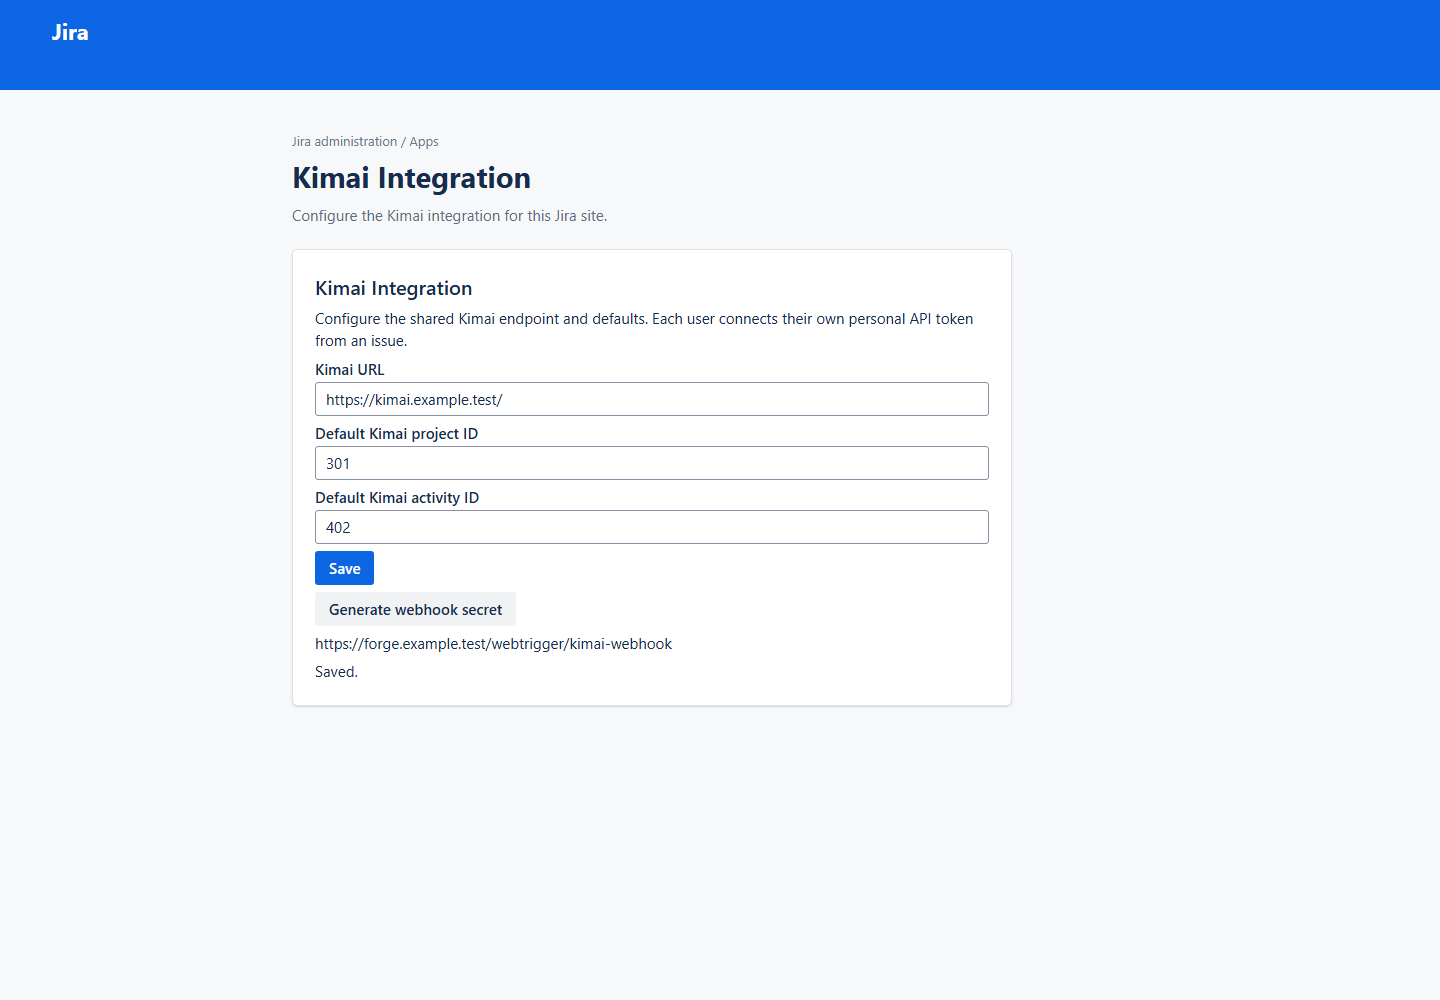
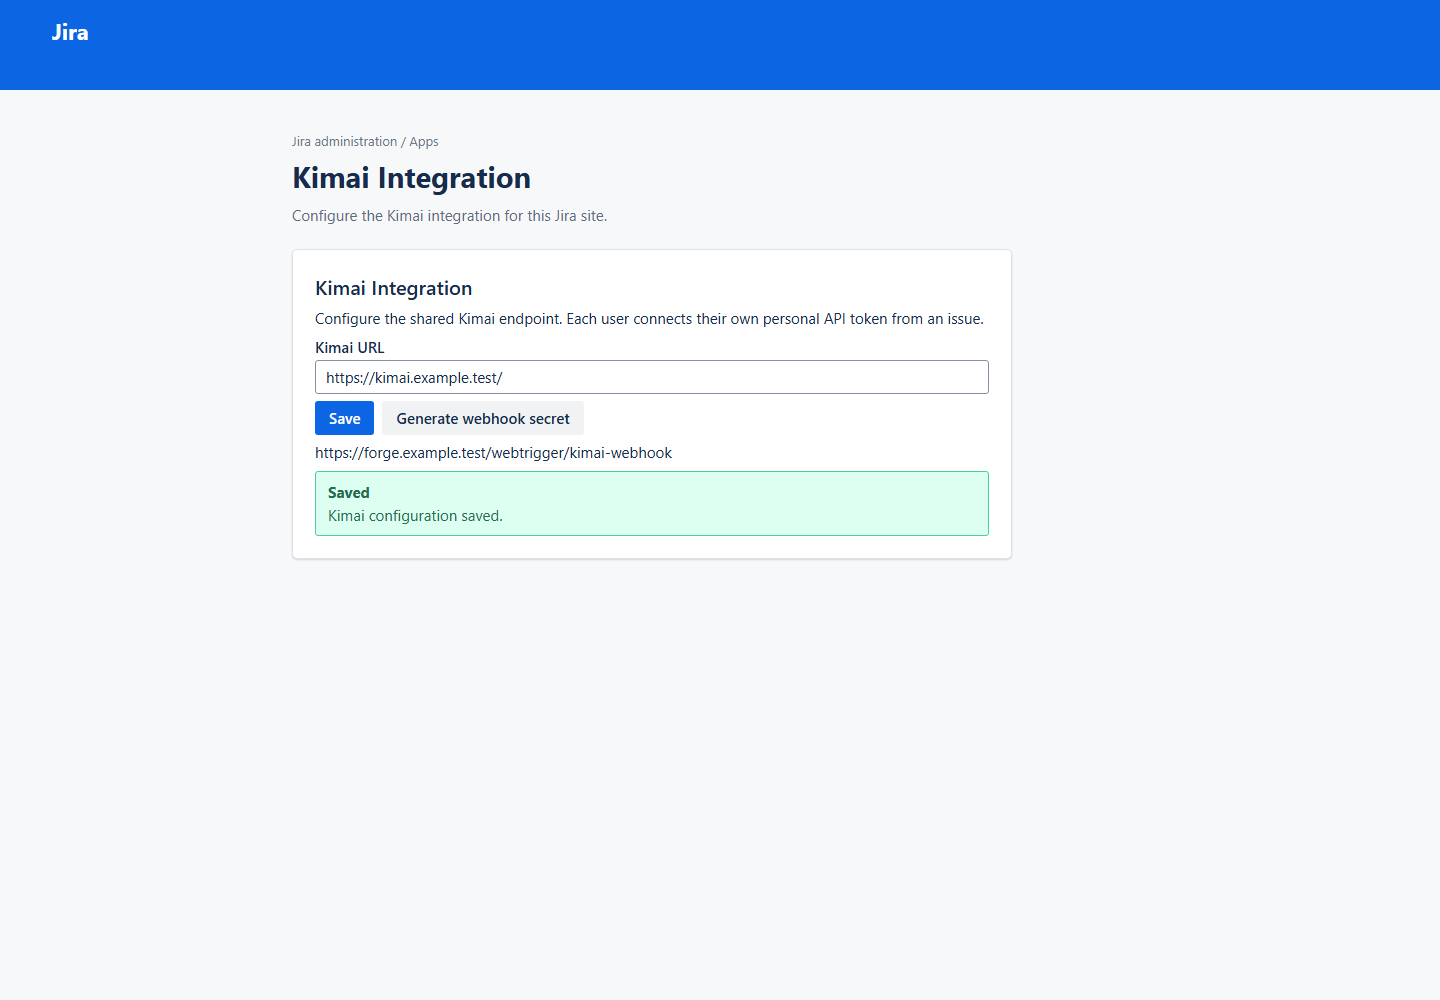
fix(kimai): normalize API base URL

Changed region(s): [[0.2188, 0.341, 0.6875, 0.682], [0.375, 0.31, 0.6875, 0.341]]

diff --git a/scripts/ui-docs/generate.ts b/scripts/ui-docs/generate.ts
@@ -70,6 +70,7 @@ function renderNode(node: ForgeNode | undefined): string {
     case 'TabList':
     case 'TabPanel': return children;
     case 'Text': return `<div class="text">${children}</div>`;
+    case 'SectionMessage': return `<div class="section-message section-message--${escapeHtml(node.props.appearance ?? 'info')}" role="status"><strong>${escapeHtml(node.props.title ?? '')}</strong>${children}</div>`;
     case 'Select': {
       const value = node.props.value as { label?: unknown } | null;
       return `<div class="select">${escapeHtml(value?.label ?? node.props.placeholder ?? '')}<span>⌄</span></div>`;
@@ -98,6 +99,7 @@ function documentationShell(fixture: UiDocumentationFixture, content: string): s
   return `<!doctype html><html lang="en"><head><meta charset="utf-8"><style>
     * { box-sizing: border-box; } html { background: #f7f8f9; } body { margin: 0; min-width: 1000px; color: #172b4d; background: #f7f8f9; font: 15px -apple-system, BlinkMacSystemFont, "Segoe UI", sans-serif; } body::before { content: "Jira"; display: block; height: 58px; padding: 16px 52px; color: white; background: #0c66e4; font-size: 22px; font-weight: 700; } h1 { margin: 8px 0 18px; color: #172b4d; font-size: 29px; } h2 { font-size: 18px; } .crumb { margin: 0; color: #6b778c; font-size: 13px; } .issue-page { display: grid; grid-template-columns: minmax(0, 1fr) 410px; gap: 36px; max-width: 1336px; margin: 44px auto; padding: 0 38px; } .issue-content { padding: 12px; } .issue-rule { height: 1px; margin: 34px 0 26px; background: #dfe1e6; } .issue-sidebar { align-self: start; overflow: hidden; border: 1px solid #dfe1e6; border-radius: 5px; background: white; box-shadow: 0 1px 2px #091e4226; } .panel-title { margin: 0; padding: 15px 18px; border-bottom: 1px solid #dfe1e6; font-weight: 600; } .forge-view { padding: 18px; } .admin-page { max-width: 940px; margin: 42px auto; padding: 0 42px 48px; } .admin-intro { margin: -8px 0 24px; color: #5e6c84; } .admin-view { max-width: 720px; padding: 22px; border: 1px solid #dfe1e6; border-radius: 5px; background: white; box-shadow: 0 1px 2px #091e4226; } .stack { display: grid; gap: 10px; } .admin-view .stack { gap: 7px; } .tabs { margin: -18px; } .tab-list { display: flex; gap: 20px; padding: 0 18px; border-bottom: 1px solid #dfe1e6; } .tab { padding: 13px 2px 10px; color: #5e6c84; font-weight: 500; } .tab--selected { border-bottom: 2px solid #0c66e4; color: #0c66e4; } .tab-panel { padding: 18px; } .text { line-height: 1.45; } .select, input, textarea { min-height: 40px; width: 100%; border: 1px solid #8590a2; border-radius: 3px; padding: 9px 11px; color: #172b4d; background: white; font: inherit; } textarea { min-height: 64px; resize: none; } .input--readonly { color: #172b4d; background: #f1f2f4; font-weight: 600; } .admin-view input { min-height: 34px; padding: 6px 10px; } .select { display: flex; justify-content: space-between; } button { width: fit-content; min-height: 34px; padding: 7px 14px; border: 0; border-radius: 3px; color: #172b4d; background: #091e420f; font: inherit; font-weight: 500; } .button--primary { color: white; background: #0c66e4; } .form-section { display: grid; gap: 6px; } .admin-view .form-section { gap: 3px; } label { color: #172b4d; font-weight: 600; } .inline { display: flex; gap: 8px; } .inline--time-row { display: grid; grid-template-columns: repeat(3, minmax(0, 1fr)); align-items: start; } .inline--fill { align-items: end; } .inline--fill input { flex: 1; } .inline--center { justify-content: center; } .tag-group { display: flex; flex-wrap: wrap; gap: 6px; } .tag-group .inline { align-items: center; gap: 3px; } .tag { display: inline-flex; align-items: center; min-height: 28px; padding: 4px 8px; border-radius: 3px; color: #0055cc; background: #deebff; font-size: 13px; font-weight: 600; } .tag-group button { min-height: 28px; padding: 4px 7px; font-size: 12px; } .checkbox { display: flex; align-items: center; gap: 8px; } .checkbox input { min-height: auto; width: auto; } .admin-view > .stack > .text:first-child { font-size: 20px; font-weight: 600; } * { animation: none !important; transition: none !important; caret-color: transparent !important; }
     .toggle { display: inline-flex; align-items: center; width: 40px; height: 24px; padding: 2px; border-radius: 12px; background: #0c66e4; } .toggle[aria-checked="false"] { background: #8590a2; } .toggle__thumb { display: block; width: 20px; height: 20px; border-radius: 50%; background: white; box-shadow: 0 1px 2px #091e4226; transform: translateX(16px); } .toggle[aria-checked="false"] .toggle__thumb { transform: translateX(0); }
+    .section-message { padding: 10px 12px; border: 1px solid; border-radius: 3px; } .section-message strong { display: block; margin-bottom: 3px; } .section-message--error { color: #ae2e24; border-color: #f87168; background: #ffebe6; } .section-message--warning { color: #974f0c; border-color: #f5cd47; background: #fff7d6; } .section-message--success { color: #216e4e; border-color: #4bce97; background: #dcfff1; } .section-message--information { color: #0055cc; border-color: #85b8ff; background: #e9f2ff; }
   </style></head><body><div id="ui-docs-ready">${issueShell}</div></body></html>`;
 }
 

diff --git a/src/frontend/admin/AdminView.tsx b/src/frontend/admin/AdminView.tsx
@@ -1,4 +1,4 @@
-import { Button, FormSection, Label, Stack, Text, Textfield } from '@forge/react';
+import { Button, FormSection, Inline, Label, SectionMessage, Stack, Text, Textfield } from '@forge/react';
 
 export interface ConfigurationState {
   config?: {
@@ -12,14 +12,10 @@ export interface ConfigurationState {
 export interface AdminViewProps {
   state: ConfigurationState;
   url: string;
-  defaultProjectId: string;
-  defaultActivityId: string;
   saved: boolean;
   error?: string;
   webhookSecret?: string;
   onUrlChange: (value: string) => void;
-  onDefaultProjectIdChange: (value: string) => void;
-  onDefaultActivityIdChange: (value: string) => void;
   onSave: () => void;
   onGenerateWebhookSecret: () => void;
 }
@@ -28,37 +24,24 @@ export interface AdminViewProps {
 export const AdminView = ({
   state,
   url,
-  defaultProjectId,
-  defaultActivityId,
   saved,
   error,
   webhookSecret,
   onUrlChange,
-  onDefaultProjectIdChange,
-  onDefaultActivityIdChange,
   onSave,
   onGenerateWebhookSecret,
 }: AdminViewProps) => (
   <Stack space="space.200">
     <Text>Kimai Integration</Text>
-    <Text>Configure the shared Kimai endpoint and defaults. Each user connects their own personal API token from an issue.</Text>
+    <Text>Configure the shared Kimai endpoint. Each user connects their own personal API token from an issue.</Text>
     <FormSection>
       <Label labelFor="kimai-url">Kimai URL</Label>
       <Textfield id="kimai-url" value={url} onChange={(event: { target: { value?: unknown } }) => onUrlChange(String(event.target.value ?? ''))} />
     </FormSection>
-    <FormSection>
-      <Label labelFor="default-project-id">Default Kimai project ID</Label>
-      <Textfield id="default-project-id" value={defaultProjectId} onChange={(event: { target: { value?: unknown } }) => onDefaultProjectIdChange(String(event.target.value ?? ''))} />
-    </FormSection>
-    <FormSection>
-      <Label labelFor="default-activity-id">Default Kimai activity ID</Label>
-      <Textfield id="default-activity-id" value={defaultActivityId} onChange={(event: { target: { value?: unknown } }) => onDefaultActivityIdChange(String(event.target.value ?? ''))} />
-    </FormSection>
-    <Button appearance="primary" onClick={onSave}>Save</Button>
-    <Button onClick={onGenerateWebhookSecret}>Generate webhook secret</Button>
+    <Inline space="space.100"><Button appearance="primary" onClick={onSave}>Save</Button><Button onClick={onGenerateWebhookSecret}>Generate webhook secret</Button></Inline>
     {state.webhookUrl && <Text>{state.webhookUrl}</Text>}
-    {error && <Text>{error}</Text>}
-    {webhookSecret && <Text>{webhookSecret}</Text>}
-    {saved && <Text>Saved.</Text>}
+    {error && <SectionMessage appearance="error" title="Kimai configuration error">{error}</SectionMessage>}
+    {webhookSecret && <SectionMessage appearance="information" title="New webhook secret">{webhookSecret}</SectionMessage>}
+    {saved && <SectionMessage appearance="success" title="Saved">Kimai configuration saved.</SectionMessage>}
   </Stack>
 );

diff --git a/src/frontend/admin/index.tsx b/src/frontend/admin/index.tsx
@@ -7,8 +7,6 @@ import { AdminView, ConfigurationState } from './AdminView';
 const App = () => {
   const [state, setState] = useState<ConfigurationState | undefined>(undefined);
   const [url, setUrl] = useState('');
-  const [defaultProjectId, setDefaultProjectId] = useState('');
-  const [defaultActivityId, setDefaultActivityId] = useState('');
   const [saved, setSaved] = useState(false);
   const [error, setError] = useState<string | undefined>(undefined);
   const [webhookSecret, setWebhookSecret] = useState<string | undefined>(undefined);
@@ -18,8 +16,6 @@ const App = () => {
       const typed = result as ConfigurationState;
       setState(typed);
       setUrl(typed.config?.url ?? '');
-      setDefaultProjectId(typed.config?.defaultProjectId === undefined ? '' : String(typed.config.defaultProjectId));
-      setDefaultActivityId(typed.config?.defaultActivityId === undefined ? '' : String(typed.config.defaultActivityId));
       setError(undefined);
     }).catch(() => setError('Unable to load the current Kimai configuration.'));
   }, []);
@@ -28,8 +24,6 @@ const App = () => {
     try {
       const result = (await invoke('saveConnectionSettings', {
         url,
-        defaultProjectId: defaultProjectId === '' ? null : Number(defaultProjectId),
-        defaultActivityId: defaultActivityId === '' ? null : Number(defaultActivityId),
       })) as { ok?: boolean; error?: string };
       if (!result.ok) throw new Error(result.error ?? 'Unable to save the connection settings.');
       setSaved(true);
@@ -53,11 +47,7 @@ const App = () => {
 
   if (!state) return <Text>{error ?? 'Loading configuration...'}</Text>;
   return <AdminView
-    defaultActivityId={defaultActivityId}
-    defaultProjectId={defaultProjectId}
     error={error}
-    onDefaultActivityIdChange={setDefaultActivityId}
-    onDefaultProjectIdChange={setDefaultProjectId}
     onGenerateWebhookSecret={onGenerateWebhookSecret}
     onSave={onSave}
     onUrlChange={setUrl}

diff --git a/src/frontend/issue-context/IssueContextView.tsx b/src/frontend/issue-context/IssueContextView.tsx
@@ -6,6 +6,7 @@ import {
   Label,
   LoadingButton,
   Select,
+  SectionMessage,
   Stack,
   Tag,
   TagGroup,
@@ -418,7 +419,7 @@ function ManualTimeEntry({
           <Button onClick={onManageConnection}>Manage Kimai connection</Button>
         </Stack>
       </Box>
-      {message && <Text>{message}</Text>}
+      {message && <SectionMessage appearance={message.startsWith('Time entry') ? 'success' : 'error'} title={message.startsWith('Time entry') ? 'Time added' : 'Unable to add time'}>{message}</SectionMessage>}
     </Stack>
   );
 }
@@ -444,7 +445,7 @@ function PersonalKimaiConnection({
       </FormSection>
       <LoadingButton appearance="primary" isDisabled={isPending || !token} isLoading={isPending} onClick={onSave}>Save personal API token</LoadingButton>
       {hasPersonalToken && <Button isDisabled={isPending} onClick={onReset}>Reset API key</Button>}
-      {message && <Text>{message}</Text>}
+      {message && <SectionMessage appearance={message.startsWith('Connected') ? 'success' : 'error'} title={message.startsWith('Connected') ? 'Kimai connected' : 'Kimai connection error'}>{message}</SectionMessage>}
     </Stack>
   );
 }

diff --git a/tests/unit/kimai-client.test.ts b/tests/unit/kimai-client.test.ts
@@ -68,4 +68,13 @@ describe('HttpKimaiClient', () => {
       expect.any(Object),
     );
   });
+
+  it('accepts a Kimai API URL without duplicating the API path', async () => {
+    const fetchFn = jest.fn().mockResolvedValue({ ok: true, status: 200, json: jest.fn().mockResolvedValue({ id: 42 }) });
+    const client = new HttpKimaiClient({ baseUrl: 'https://kimai.example.test/api', apiToken: 'token', fetchFn: fetchFn as unknown as typeof fetch });
+
+    await client.getCurrentUser();
+
+    expect(fetchFn).toHaveBeenCalledWith('https://kimai.example.test/api/users/me', expect.any(Object));
+  });
 });

diff --git a/src/kimai/client.ts b/src/kimai/client.ts
@@ -48,7 +48,10 @@ export class HttpKimaiClient implements KimaiClient {
   private readonly fetchFn: typeof fetch;
 
   constructor(options: KimaiClientOptions) {
-    this.baseUrl = options.baseUrl.replace(/\/+$/, '');
+    // Kimai asks users for the browser base URL, not its `/api` endpoint.
+    // Accept a previously saved `/api` URL as well so existing installations
+    // do not issue invalid requests such as `/api/api/users/me`.
+    this.baseUrl = options.baseUrl.replace(/\/+$/, '').replace(/\/api$/, '');
     this.apiToken = options.apiToken;
     this.fetchFn = options.fetchFn ?? fetch;
   }

diff --git a/tests/unit/configuration-resolver.test.ts b/tests/unit/configuration-resolver.test.ts
@@ -103,4 +103,12 @@ describe('configuration resolver', () => {
     });
     expect(mockSetKimaiConfig).toHaveBeenCalledWith({ url: 'https://new-kimai.example.test/base' });
   });
+
+  it('normalizes an API endpoint to the Kimai browser base URL', async () => {
+    const saveConnectionSettings = (handler as unknown as typeof mockDefinitions).saveConnectionSettings;
+
+    await saveConnectionSettings({ payload: { url: 'https://kimai.example.test/api' } });
+
+    expect(mockSetKimaiConfig).toHaveBeenCalledWith(expect.objectContaining({ url: 'https://kimai.example.test' }));
+  });
 });

diff --git a/src/resolvers/configuration.ts b/src/resolvers/configuration.ts
@@ -124,7 +124,8 @@ function normalizeKimaiUrl(value: string | undefined): string | undefined {
     if (parsed.protocol !== 'https:' || parsed.username || parsed.password || parsed.search || parsed.hash) {
       return undefined;
     }
-    return parsed.origin.replace(/\/$/, '') + parsed.pathname.replace(/\/$/, '');
+    const path = parsed.pathname.replace(/\/$/, '');
+    return parsed.origin.replace(/\/$/, '') + (path === '/api' ? '' : path);
   } catch {
     return undefined;
   }
